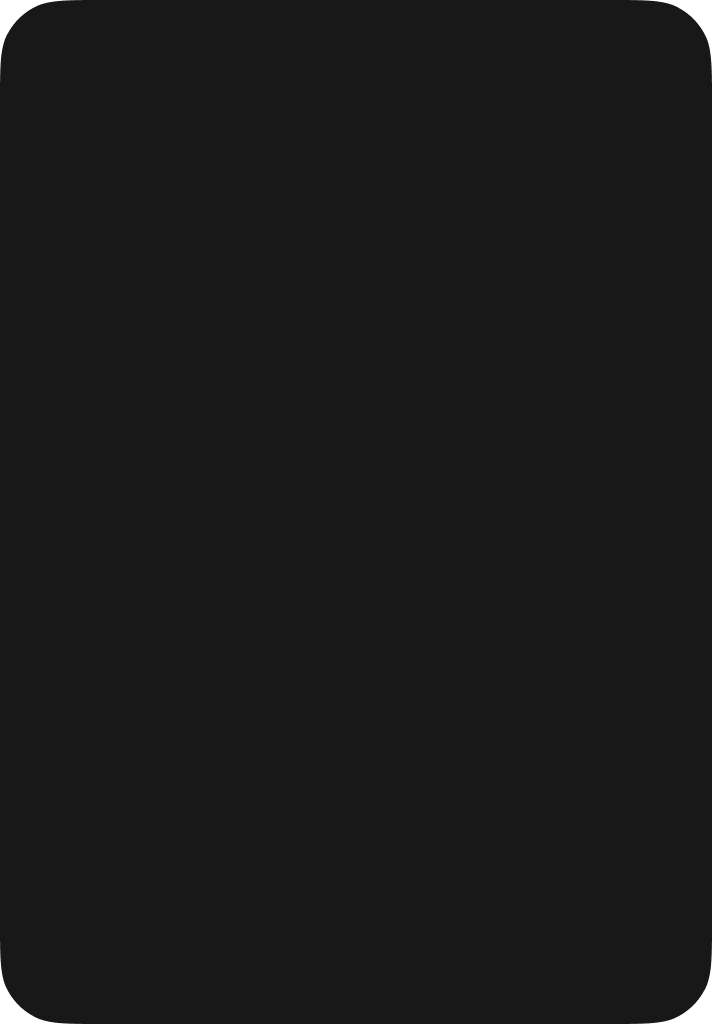
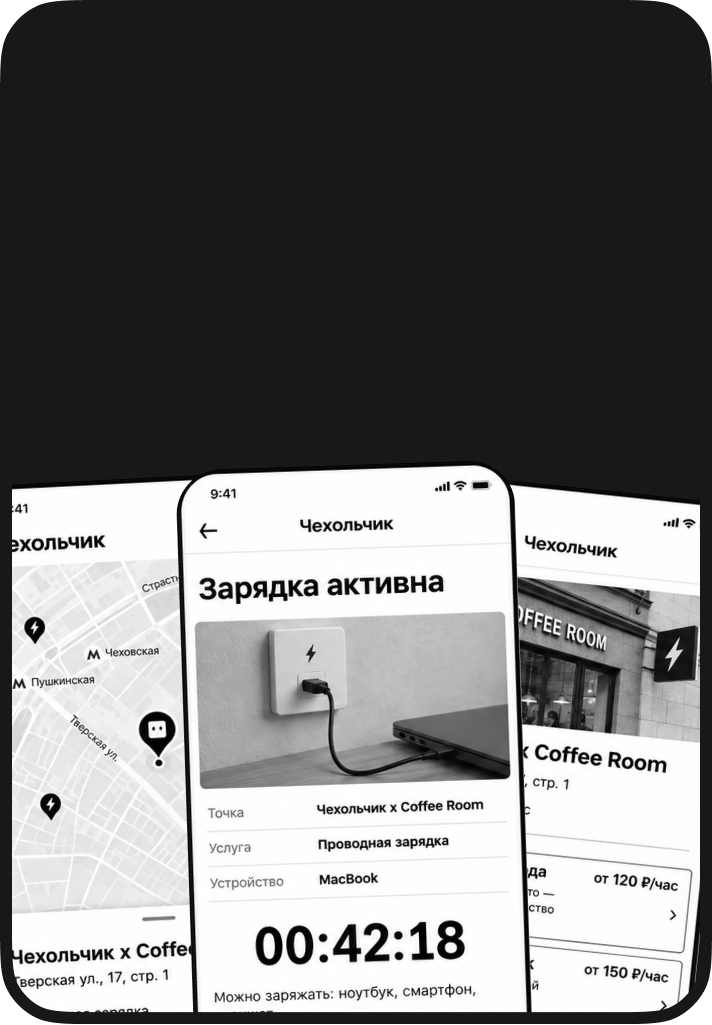
Connect six approved project covers

diff --git a/js/data/work-experience.js b/js/data/work-experience.js
@@ -2,7 +2,7 @@
    This file contains DATA, not HTML/CSS. Figma/PDF remains source of truth. */
 (()=>{
  "use strict";
- const uploadedCovers=new Set(["2space","aicors","apple-bar","aquator","artsavur","baraholka34","bill-split","bnqr","bonape-training","celtway","chatus","chexolchik","china-car","city-exchange","crush","dead-choices","deli-she","desire-inn","diary-book","digital-lawyer","domodel","domvrach","duckmaster","echo-app","erp","eurotek","exocure","fab-fantasy","finflow","fitness-pro","fly-ball","forfis-new-site","freshman","game-of-year","glavbankrot","greenbox","hamilya-shop","hash-hedge","history-app","horny-villa","invaprom","izi-crm","izum","khleb-iz-tandyra","logirus","luch","marcodo","media-garant","mobilka34","moonlight","my-ai-slut","myasnoy-dvor","nda-automotive-1","nda-automotive-2","nda-automotive-3","nda-bank","numa","onecase","onlinesklad","papa-pizza","parking","payment-gateway","pelikan","pilots-app","pixel-drop","pizza-dashboard","poker-n-sluts","propuska","psychology","quickpharm","restar","restomesto","ridis","rocket-jet","rsk","sailor-planner","salute","she-talks","slab-service","sober-driver","star-exchange","starhash-benchmark","tezgo","transport-tech","treasures-pskov","trips","twin-finder","vektor","verbatica","vezu-edu","virus","vita-ai","vk-media","vlad-bykov","vodacom","vodafon","vremena-goda","vybor","winline","wsct","x6","yacht-center","youtube-1","youtube-2","zaryadka"]);
+ const uploadedCovers=new Set(["2space","aicors","apple-bar","aquator","artsavur","baraholka34","bill-split","bnqr","bonape-training","celtway","chatus","chexolchik","china-car","city-exchange","crush","dead-choices","deli-she","desire-inn","diary-book","digital-lawyer","domodel","domvrach","duckmaster","echo-app","erp","eurotek","exocure","fab-fantasy","finflow","fitness-pro","avtoshkola","domashniy-doktor","fly-ball","forfis-new-site","freshman","internship-platform","game-of-year","glavbankrot","greenbox","hamilya-shop","hash-hedge","history-app","horny-villa","invaprom","izi-crm","izum","khleb-iz-tandyra","logirus","luch","marcodo","media-garant","mobilka34","moonlight","my-ai-slut","myasnoy-dvor","nda-web3","nda-automotive-1","nda-automotive-2","nda-automotive-3","nda-bank","numa","rdmart","onecase","onlinesklad","papa-pizza","parking","payment-gateway","pelikan","pilots-app","pixel-drop","pizza-dashboard","poker-n-sluts","propuska","psychology","quickpharm","restar","restomesto","ridis","rocket-jet","rsk","sailor-planner","salute","she-talks","slab-service","sober-driver","star-exchange","starhash-benchmark","tezgo","transport-tech","treasures-pskov","trips","twin-finder","vektor","verbatica","vezu-edu","virus","vita-ai","vk-media","vlad-bykov","vodacom","vodafon","vremena-goda","vybor","winline","wsct","x6","yacht-center","youtube-1","youtube-2","zaryadka"]);
  // Metadata for source artworks absent from the old static timeline. No fake
  // metrics or unpublished case details are manufactured.
  const extraProjects={"izi-crm":["IZI","Легкая CRM система для отдела продаж","Создание своей CRM системы, которая стала полной заменой: Bitirix24, Teletype и Sipuni.","/cases/automotive-automation/","AUTOMOTIVE"],"nda-automotive-1":["NDA","Автомобильная экосистема продаж","Реклама, сайт, телефония и CRM. Как оптимизация одного звена показало x12 к продажам.","/cases/automotive/","AUTOMOTIVE"],"nda-automotive-2":["NDA","Продажа авто через создание бренда","От разработки парсера, до завода по генерации роликов с обзорами машин и 500 статьями.","/cases/automotive/","AUTOMOTIVE"],"nda-automotive-3":["NDA","Рекламная воронка по продаже деталей","Полный цикл менеджмента компании: воронка, запуск посевов и написание скриптов для продаж.","/cases/engine-leads/","AUTOMOTIVE"],"my-ai-slut":["MY AI SLUTS","Создание и общение с ИИ персонажами","Продукт изначально создавался для своей идеи. Проработав месяц, нашёлся покупатель MVP.","/projects/","MATURE"],"fab-fantasy":["FAP FANTASY","Сюжетная Merge-игра для взрослых","Игровой мир с романтическими историями, интерактивными персонажами и исследованиями.","/projects/","MATURE"],"poker-n-sluts":["POKER N' SLUTS","Покерный клуб с эротикой 18+","Покер, слоты и мини-игры с персонажами, VIP-столами и историей спасения семьи.","/projects/","MATURE"],"horny-villa":["HORNY VILLA","Merge-игра с развитием виллы","Объединение предметов, обустройство особняка и развитие отношений с девушками.","/projects/","MATURE"],"desire-inn":["DESIRE INN","18+ симулятор управления отелями","Развитие сети отелей, работа с гостями, управление персоналом и романтические истории.","/projects/","MATURE"],"onecase":["1Case","TMA с механикой открытия кейсов","Открытие длится секунды. Интереснее то, что происходит до результата и после него.","/cases/onecase/","Game"],"finflow":["FinFlow","TMA для управления личными финансами","Короткие действия должны складываться в общий прогресс, а не существовать отдельно.","/cases/finflow/","Fintech"],"nda-web3":["NDA Web3","Финансовый Web3-продукт","Детали проекта ограничены соглашением о конфиденциальности.","/projects/","NDA"],"youtube-1":["TOBOGANT64D","YouTube-канал с игровыми нарезками","Не одна игра, а разные игровые моменты. Второй канал вырос до шестизначной аудитории.","/cases/media/","GAMING"],"youtube-2":["TOBOBORODA","YouTube-канал по Minecraft летсплеям","Первый опыт построения собственной аудитории.","/cases/media/","GAMING"],"vremena-goda":["Времена года","Бренд и маркетинг для 18+","Сложный сегмент, упаковка продукта и продвижение.","/cases/vremena-goda/","Marketing"],"exocure":["EXOCURE","Система аналитики","Интерфейсы и презентации аналитической платформы.","/cases/exocure/","Tech"],"payment-gateway":["Payment Gateway","Платёжный продукт","Полный цикл продуктового дизайна для криптоплатежей.","/cases/payment-gateway/","Fintech"],"rsk":["RSK","Сайт-каталог сувенирной компании","Большой ассортимент сувениров: задача превратить лида в покупателя.",null,""],"pixel-drop":["Pixel Drop","Маркетплейс для Roblox с кейсами","Переработанная игровая механика ускорила разработку в четыре раза.",null,""],"dead-choices":["Dead Choice","Игра, где выбор влияет на сюжет","171 проработанная сцена и сотни сюжетных зависимостей.",null,""],"aicors":["AiCors","Образовательная платформа с ИИ","Дизайн, разработка и pitch deck в ограниченные сроки.",null,""],"hash-hedge":["HASH HEDGE","Торговая экосистема для проп-трейдинга","История о том, как разработка одной маркетинговой воронки перетекла в полный редизайн.","/cases/hash-hedge/","FINTECH"],"wsct":["WSCT","Турнирная воронка для трейдеров","Привлечь трейдера мало. Нужно объяснить соревнование, правила и довести до участия.","/cases/wsct/","FINTECH"],"echo-app":["ЭХО","Анонимный мессенджер","Меньше публичных данных, больше требований к приватности и сценариям общения.",null,""],"vlad-bykov":["Vlad Bykov","Сайт для бренда одежды инфлюенсера","Личность нельзя передать одним блоком «О себе». Визуальная подача требует характера.",null,""],"twin-finder":["Twin Finder","Поиск двойников с помощью ИИ","Найти похожего человека умеет технология. Превратить результат в интересный продукт сложнее.",null,""],"propuska":["Пропуска","Система пропусков для частного сектора","Выдача пропуска кажется простой, пока не появляются гости, ограничения и согласования.",null,""],"parking":["Parking","Приложение поиска парковок в Москве","Водитель не будет изучать интерфейс посреди дороги. Нужная информация должна быть сразу.",null,""],"media-garant":["Media Garant","Гарант для сделок с цифровыми активами","Ошибка может стоить денег. Потому каждый тап сделки должен быть прозрачным.",null,""],"chatus":["Chatus","Приложение для анонимных знакомств","История о том, как не делать из анонимных знакомств очередное чёрно-белое приложение с анонимусами.",null,""],"vita-ai":["Vita AI","Медицинский продукт с использованием ИИ","ИИ помогает работать с данными, но контроль важных решений должен оставаться понятным.",null,""],"internship-platform":["Internship Platform","Платформа поиска стажировок","Работодатель ищет опыт, а кандидат ищет в первую очередь возможность его получить.",null,""],"starhash-benchmark":["StarHash Benchmark","Платформа для майнинга в облаке","Показатели легко вывести, но гораздо сложнее выделить действительно важное.",null,""],"luch":["Луч","Приложение для детского творчества","Ребёнок видит готовую поделку, но не знает, с чего начать. Приложение ведёт его по шагам.",null,""],"2space":["2Space","Сайт для агентства TMA-приложений","Создание сайта с предложением на разработку TMA под заказ, с калькулятором для клиентов.",null,""],"forfis-new-site":["FORFIS","Сайт для агентства полного цикла","Редизайн сайта партнёра с калькулятором и проработкой SEO-запросов для нейросетей.",null,""],"digital-lawyer":["Цифровой юрист","Продукт для поиска юриста через ИИ","Искусственный интеллект не сможет полноценно заменить юриста, но поможет найти лучшего.",null,""],"star-exchange":["Star Exchange","Обмен Telegram Stars на криптовалюту","Пользователь меняет цифровой актив на деньги. Непонятные состояния здесь недопустимы.",null,""],"city-exchange":["City Exchange","Приложение для обмена криптовалют","Переработка стандартных паттернов без создания новых болевых сценариев.",null,""],"greenbox":["Greenbox","Продажа рулонного газона через сайт","Правильно выстроенные воронки продаж могут работать даже не в сезон бизнеса.",null,""],"invaprom":["Инвапром","Сайт производителя подъёмников","Специальное оборудование требует точной информации. Покупателю важнее ясность, чем декор.",null,""],"crush":["Crush","TMA с игровой механикой ракетки","Простое действие должно оставаться интересным после десятков повторений.",null,""],"virus":["Virus","Игровой продукт внутри Telegram","Существующий интерфейс нельзя менять без последствий. Это затрагивает привычки игроков.","/cases/virus/",""],"bill-split":["Bill Split","Приложение для разделения расходов","Один платит за всех, другой только за себя. Это ещё до полной мультивалютности и долгов.","/cases/bill-split/",""],"pilots-app":["PILOTS APP","Маркетплейс вакансий для авиации","Четыре роли, разные интересы и одна платформа. Простого каталога вакансий недостаточно.","/cases/pilots-app/",""],"vybor":["Выбор","Каталог строительных материалов","Большой выбор материалов быстро превращается в проблему без понятной структуры каталога.",null,""],"sailor-planner":["Sailor Planner","Планировщик морских путешествий","Маршрут на воде зависит от множества условий. Планирование должно оставаться управляемым.",null,""],"bonape-training":["BONAPE","Обучение специалистов и команд","От обучения специалистов до управления клиентскими проектами.",null,""],"salute":["SALUTE","Управление сетью Telegram-каналов","Маркетинг, трафик и рекламная сеть из 31 канала.",null,""],"artsavur":["ARTSAVUR","Команда цифровых продуктов","Дизайн, разработка и управление агентством.",null,""],"onlinesklad":["ONLINESKLAD","Строительный маркетплейс","Сложные сценарии, один дизайнер и год работы на бумаге. Как успеть всё за два месяца, а не год?","/cases/onlinesklad/","E-COMMERCE"],"sober-driver":["SOBER DRIVER","Приложение и сайт для вызова водителя","Масштабирование продукта в условиях жёсткой конкуренции и модерации на рынке услуг.","/cases/sober-driver/","MOBILITY"],"vodacom":["Vodacom","Сервис заказа и доставки воды","От приложения до сайта и рекламного продвижения.",null,""],"restar":["RESTAR","Поиск B2B-клиентов для продажи шпал","Около 9 тысяч рублей рекламного бюджета. Результат измерялся годовыми B2B-сделками.","/cases/restar/","INDUSTRIAL"],"vk-media":["BLVT","Сообщество с мемами ВКонтакте","От YouTube к развитию отдельного сообщества с собственной аудиторией.","/cases/media/","MEDIA"],"duckmaster":["DUCKMASTER","TMA с игровыми механиками","Что важнее пользователю: механика или её визуальное исполнение? Полный разбор с метриками.","/cases/duckmaster/","GAMEDEV"],"game-of-year":["GAME OF YEAR","Карточная RPG с механиками 18+","Битвы, уровни и откровенные персонажи. За визуалом скрывается полноценная игровая система.","/cases/game-of-year/","GAMEDEV"],"apple-bar":["APPLE BAR","Маркетплейс для устройств Apple","От небольшой офлайн-точки до онлайн-заказов и рекламных воронок.","/cases/apple-bar/","E-COMMERCE"],"zaryadka":["ZARYADKA","Приложение для зарядки устройств","Продолжение собственного бизнеса CHOCHI: аренда повербанков и зарядок.","/projects/","RETAIL"],"fitnesspro":["FitnessPro","Сайт для спортивного бизнеса","Разрабатывал пользовательские сценарии и интерфейсы с учётом устройства продукта и реальных задач пользователя.","/cases/fitnesspro/","ДИЗАЙН"]};

diff --git a/js/sections/experience-v42.js b/js/sections/experience-v42.js
@@ -19,7 +19,7 @@
  for(const card of document.querySelectorAll("#selected a.sx25b3-card[data-sx25b3-slug]")){
   selected.set(card.dataset.sx25b3Slug,card);
  }
- const pdfWebpCovers=new Set(["internship-platform","avtoshkola","domashniy-doktor"]);
+ const pdfWebpCovers=new Set([]);
  const el=(tag,cls,content)=>{
   const node=document.createElement(tag);
   if(cls)node.className=cls;
@@ -34,7 +34,7 @@
   // FitnessPro's original uploaded cover was filed under the normalized
   // "fitness-pro" slug. Use the actual source cover, never placeholder artwork.
   const sourceSlug=slug==="fitnesspro"?"fitness-pro":slug;
-  const uploaded=data.uploadedCovers.has(sourceSlug)||slug==="rdmart"||slug==="nda-web3";
+  const uploaded=data.uploadedCovers.has(sourceSlug);
   const pdfWebp=pdfWebpCovers.has(sourceSlug);
   if(!uploaded&&!pdfWebp&&!legacy&&!featured)return null;
   // The source PDF registry is authoritative for every published work card.
@@ -52,7 +52,7 @@
   const year=fromPdf.year;
   const metric={value:fromPdf.metric[0],label:fromPdf.metric[1]};
   const cover=pdfWebp?"/assets/cases/"+sourceSlug+"/cover.webp":
-    uploaded?"/assets/cases/"+sourceSlug+"/cover-work."+(slug==="rdmart"||slug==="nda-web3"?"svg":"png"):
+    uploaded?"/assets/cases/"+sourceSlug+"/cover-work.png":
     (featured?.querySelector(".sx25b3-art")?.getAttribute("src")||
      legacy?.querySelector(".sx-card-image img")?.getAttribute("src"));
   if(!cover)return null;

diff --git a/scripts/check_portfolio_browser.py b/scripts/check_portfolio_browser.py
@@ -254,7 +254,7 @@ QA_HTML = r"""<!doctype html>
    }
    const rdmart=pick('#experience #bonape a.ds-project-card[data-slug="rdmart"]');
    ok("RDMART restored PDF source artwork",
-     !!rdmart&&rdmart.querySelector(".sx25b3-art")?.getAttribute("src")?.endsWith("/assets/cases/rdmart/cover-work.svg"),
+     !!rdmart&&rdmart.querySelector(".sx25b3-art")?.getAttribute("src")?.endsWith("/assets/cases/rdmart/cover-work.png"),
      rdmart?.querySelector(".sx25b3-art")?.getAttribute("src")||"missing");
    // Titles and descriptions are verified against the PDF, not truncated.
    // The shared 356px card should show two and three complete lines respectively.
@@ -298,7 +298,7 @@ QA_HTML = r"""<!doctype html>
    }
    const nda2025=pick('#experience #private-2025 a.ds-project-card[data-slug="nda-web3"]');
    ok("PDF NDA Web3 artwork exists",
-     !!nda2025&&nda2025.querySelector("img.sx25b3-art")?.getAttribute("src")?.endsWith("/assets/cases/nda-web3/cover-work.svg"),
+     !!nda2025&&nda2025.querySelector("img.sx25b3-art")?.getAttribute("src")?.endsWith("/assets/cases/nda-web3/cover-work.png"),
      nda2025?.querySelector("img.sx25b3-art")?.getAttribute("src")||"missing");
    // Every visible project uses canonical typography tokens. On desktop,
    // content must fit without any line-clamp truncation.

diff --git a/scripts/check_design_system.py b/scripts/check_design_system.py
@@ -341,7 +341,7 @@ if period_source_match:
                f"Approved PDF card text/design changed in {period_id}: {checksum:#x}")
     expect("poizon-shop" not in source_cards.get("bonape", {}),
            "POIZON SHOP must remain excluded from the portfolio")
-    expect((ROOT / "assets/cases/rdmart/cover-work.svg").is_file(),
+    expect((ROOT / "assets/cases/rdmart/cover-work.png").is_file(),
            "RDMART project cover must exist")
 else:
     expect(False, "PDF period cards registry missing or not valid JSON")
